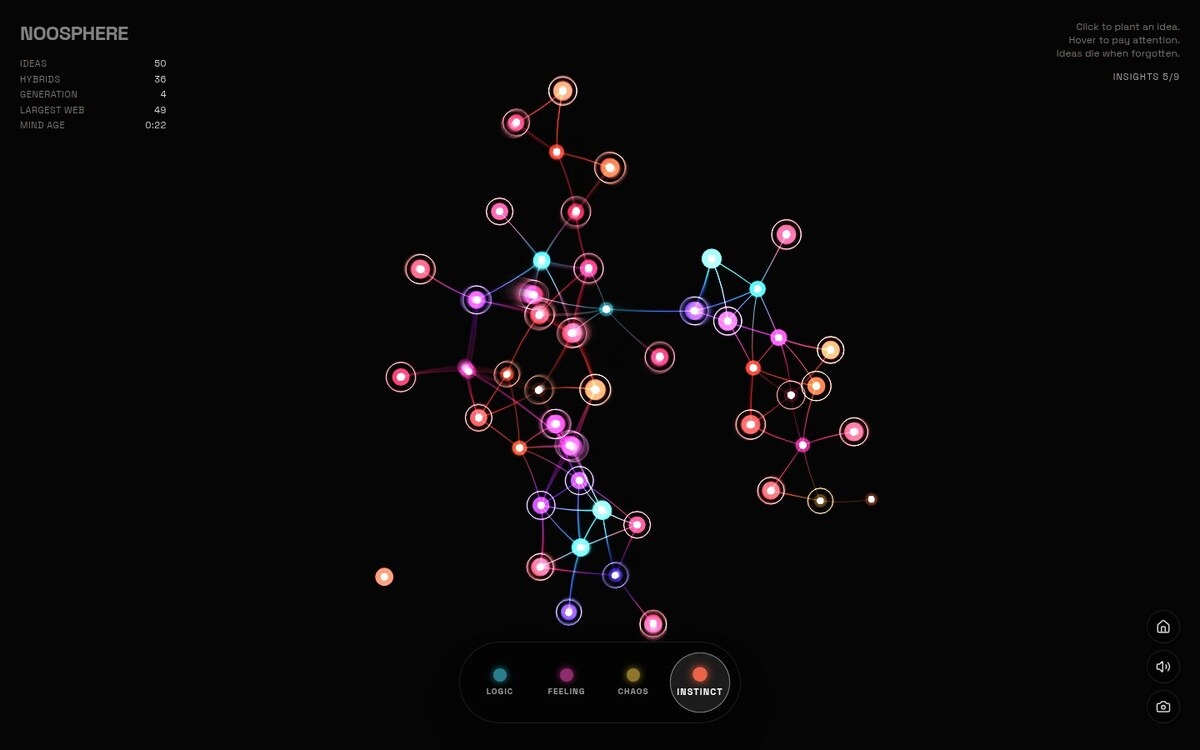
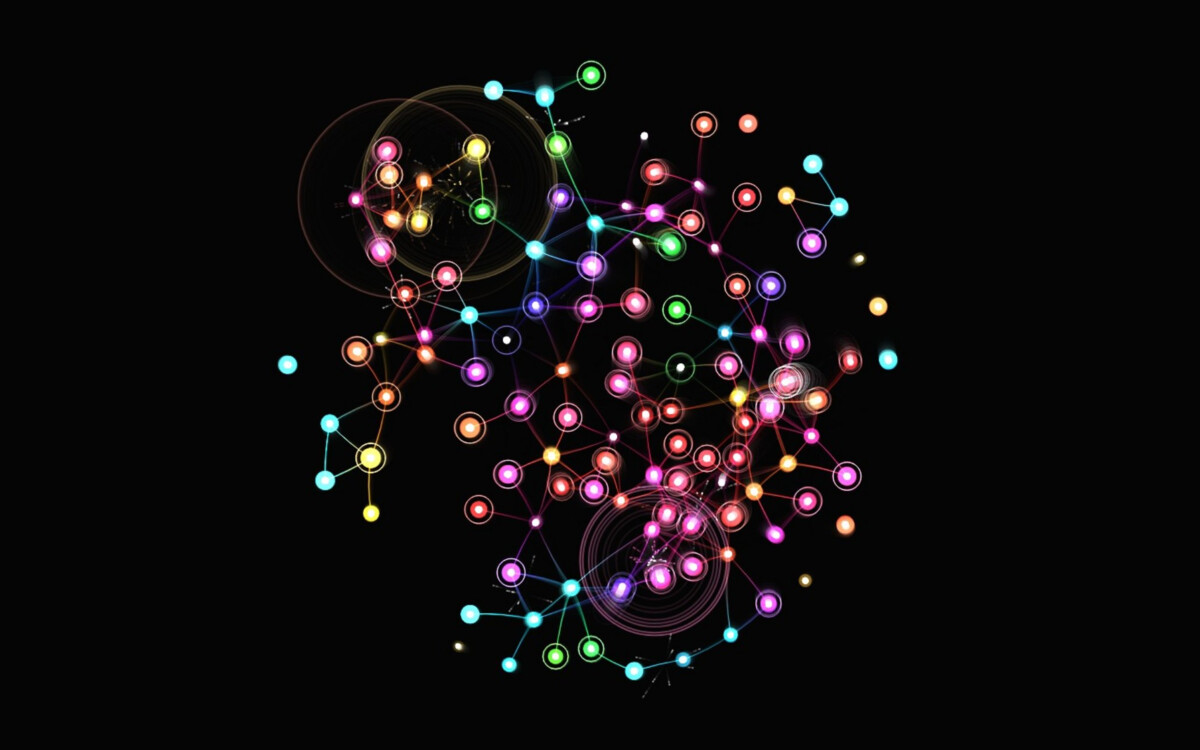
[IMP] docs: recapture the screenshots and store art from the current game
The screenshots and the store banner predated the game feel, music,
pause menu and shape revert, and showed a small early mind.

- mind, campaign, menu and social preview are recaptured from the
  current build: a full four-archetype mind, and chapter 5 with a doubt
  latched on and focus spent.
- birth and doubt are new and join the README table: shockwaves from
  hybrid births, and chapter 3 with a doubt creeping in.
- The studio catalog cover is cropped from the banner's mind, so it no
  longer shows the clipped HUD numbers and archetype bar of a cropped
  screenshot.
- The store banner shows a larger mind; its emblem is redrawn at
  160 px beside the title, where it had come out a few pixels wide.

diff --git a/README.md b/README.md
@@ -53,12 +53,22 @@ mind is saved in the browser, so you can close the tab and come back.
 <table>
 <tr>
 <td align="center" width="50%" valign="top">
-<img src="docs/screenshots/campaign.jpg" alt="Chapter 1 of the campaign: five objectives that unlock archetypes and mechanics one at a time" width="460"><br>
+<img src="docs/screenshots/campaign.jpg" alt="Chapter 5, Instinct: a doubt latched onto a web that has joined all four archetypes, with focus spent" width="460"><br>
 The campaign teaches the game one idea at a time.
 </td>
 <td align="center" width="50%" valign="top">
 <img src="docs/screenshots/menu.jpg" alt="Title screen with BEGIN for the campaign and FREE MIND for the sandbox" width="460"><br>
 Two ways in: the campaign, or the sandbox with no focus cost.
+</td>
+</tr>
+<tr>
+<td align="center" width="50%" valign="top">
+<img src="docs/screenshots/birth.jpg" alt="A sandbox mind of 122 ideas with shockwave rings spreading from new hybrids and the Lineage insight toast" width="460"><br>
+Every hybrid birth sends out a shockwave.
+</td>
+<td align="center" width="50%" valign="top">
+<img src="docs/screenshots/doubt.jpg" alt="Chapter 3, Doubt: a web of Logic ideas and Logic-Chaos hybrids, with a dark doubt creeping in at its right edge" width="460"><br>
+Doubts creep in from the edges and drain what they touch.
 </td>
 </tr>
 </table>
